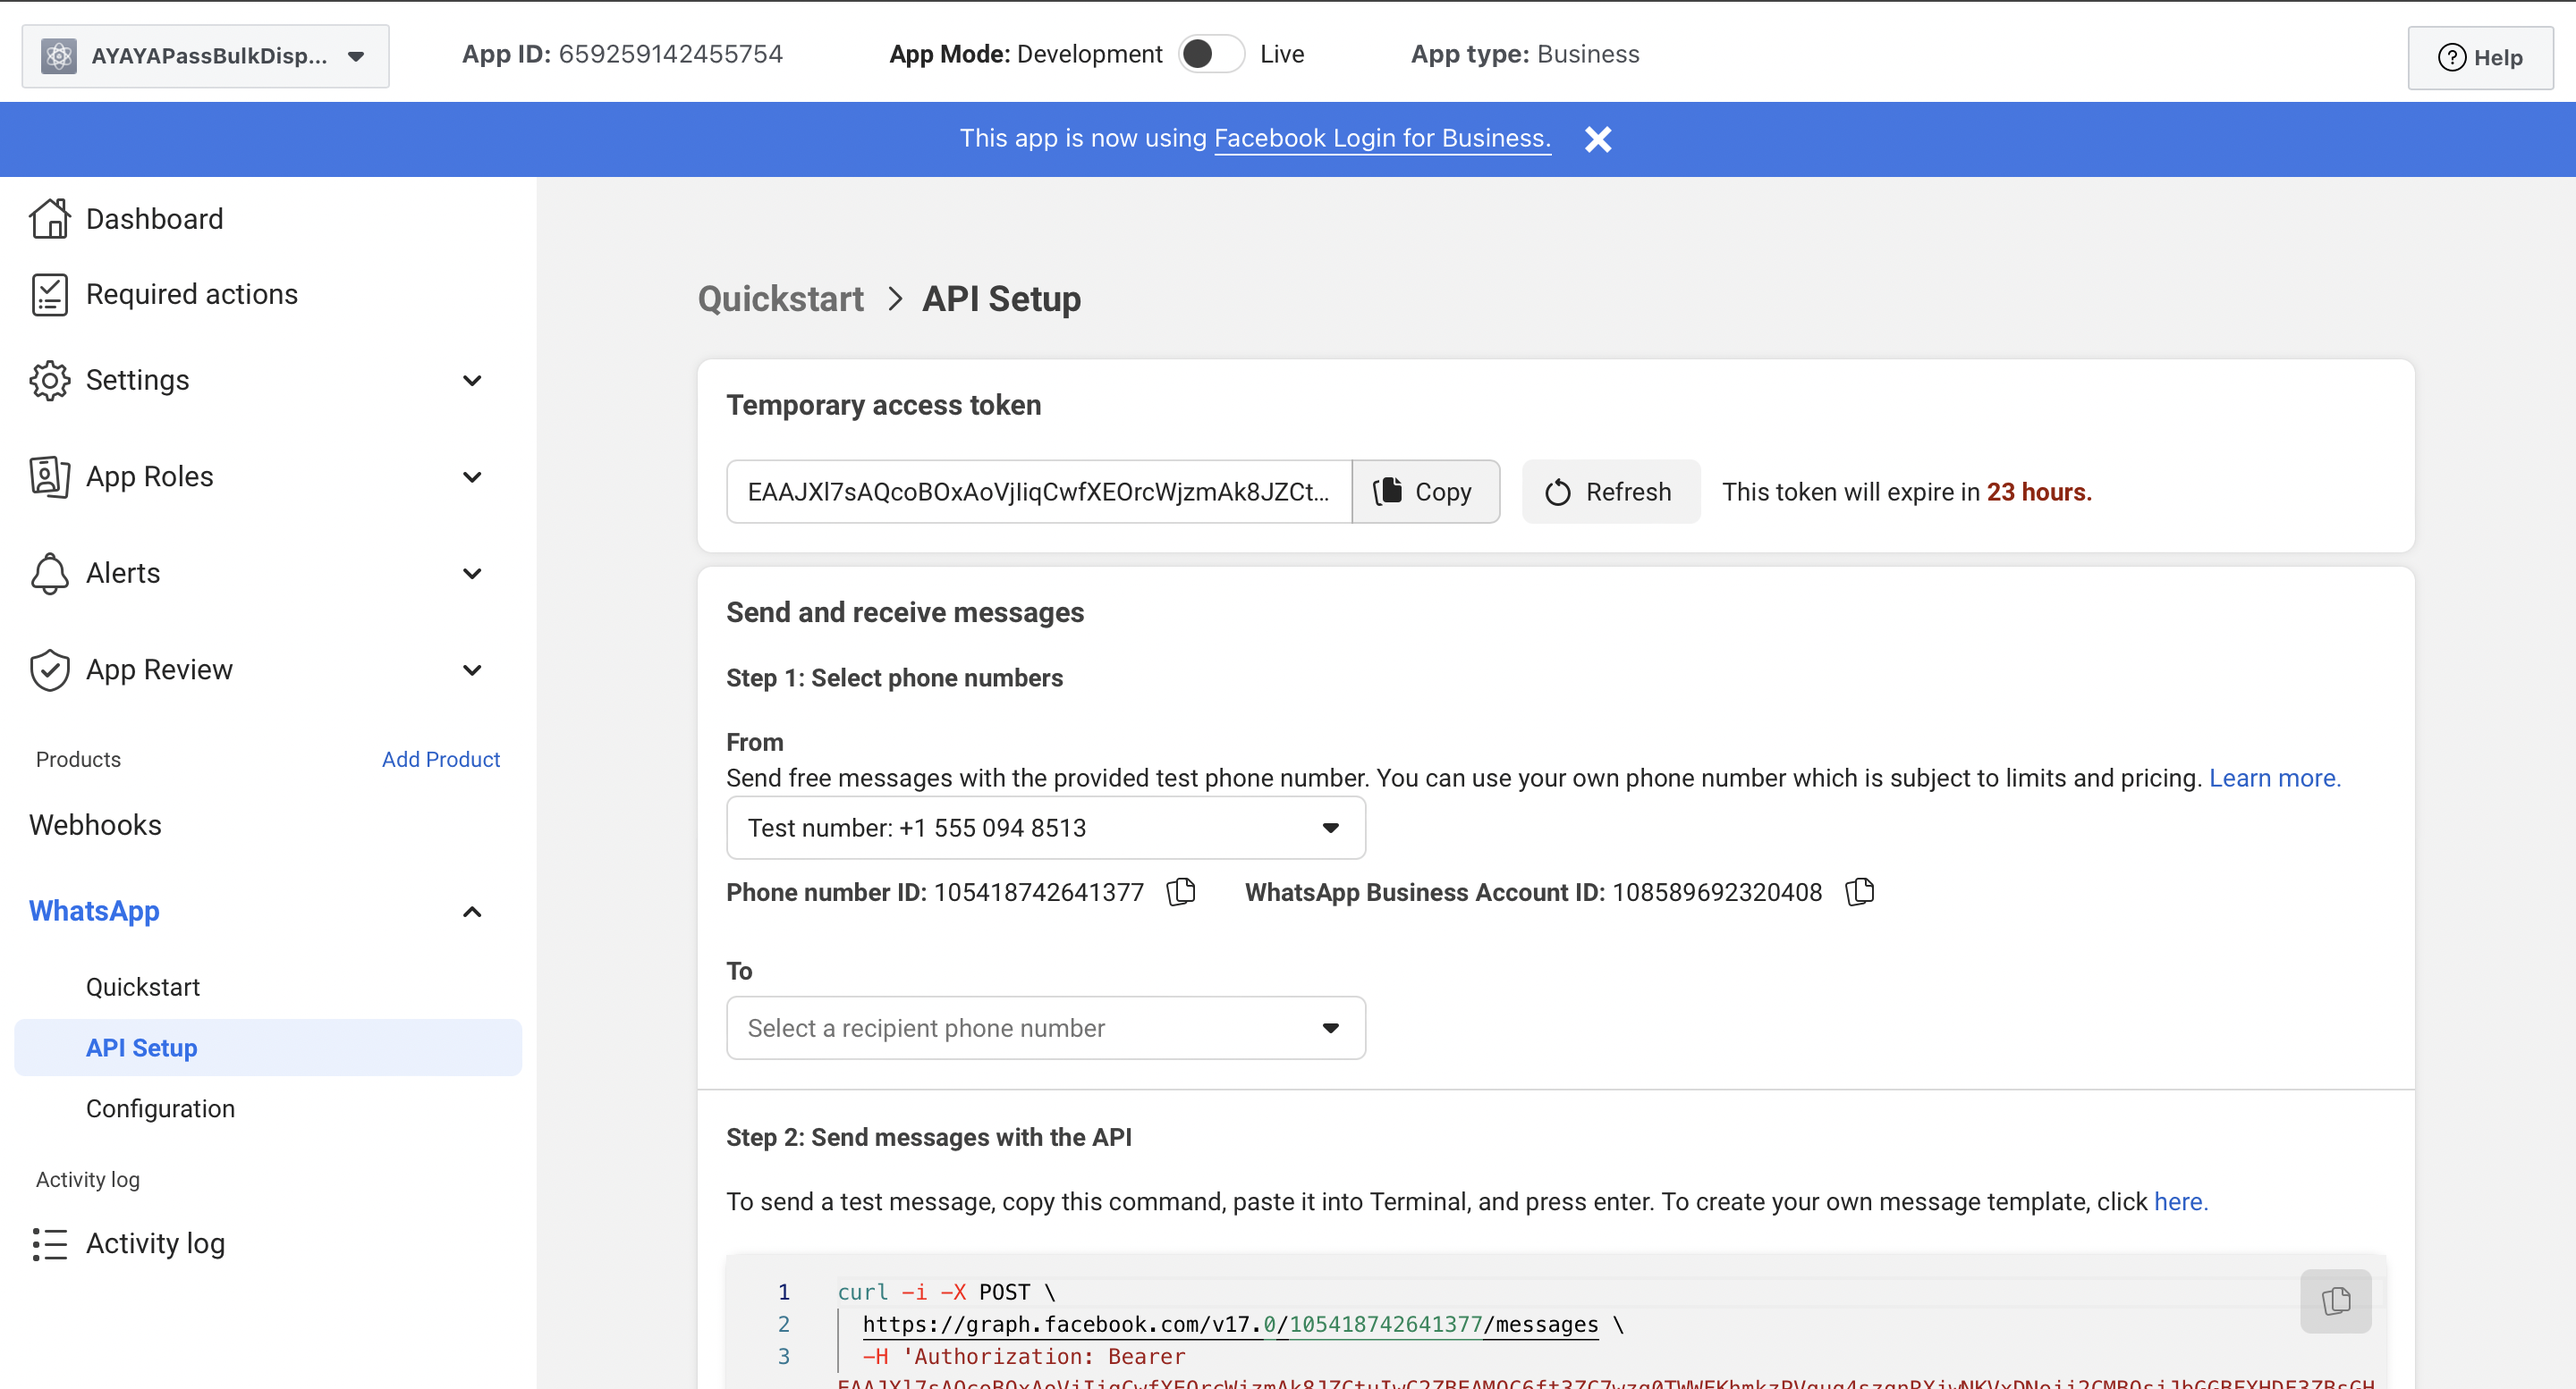
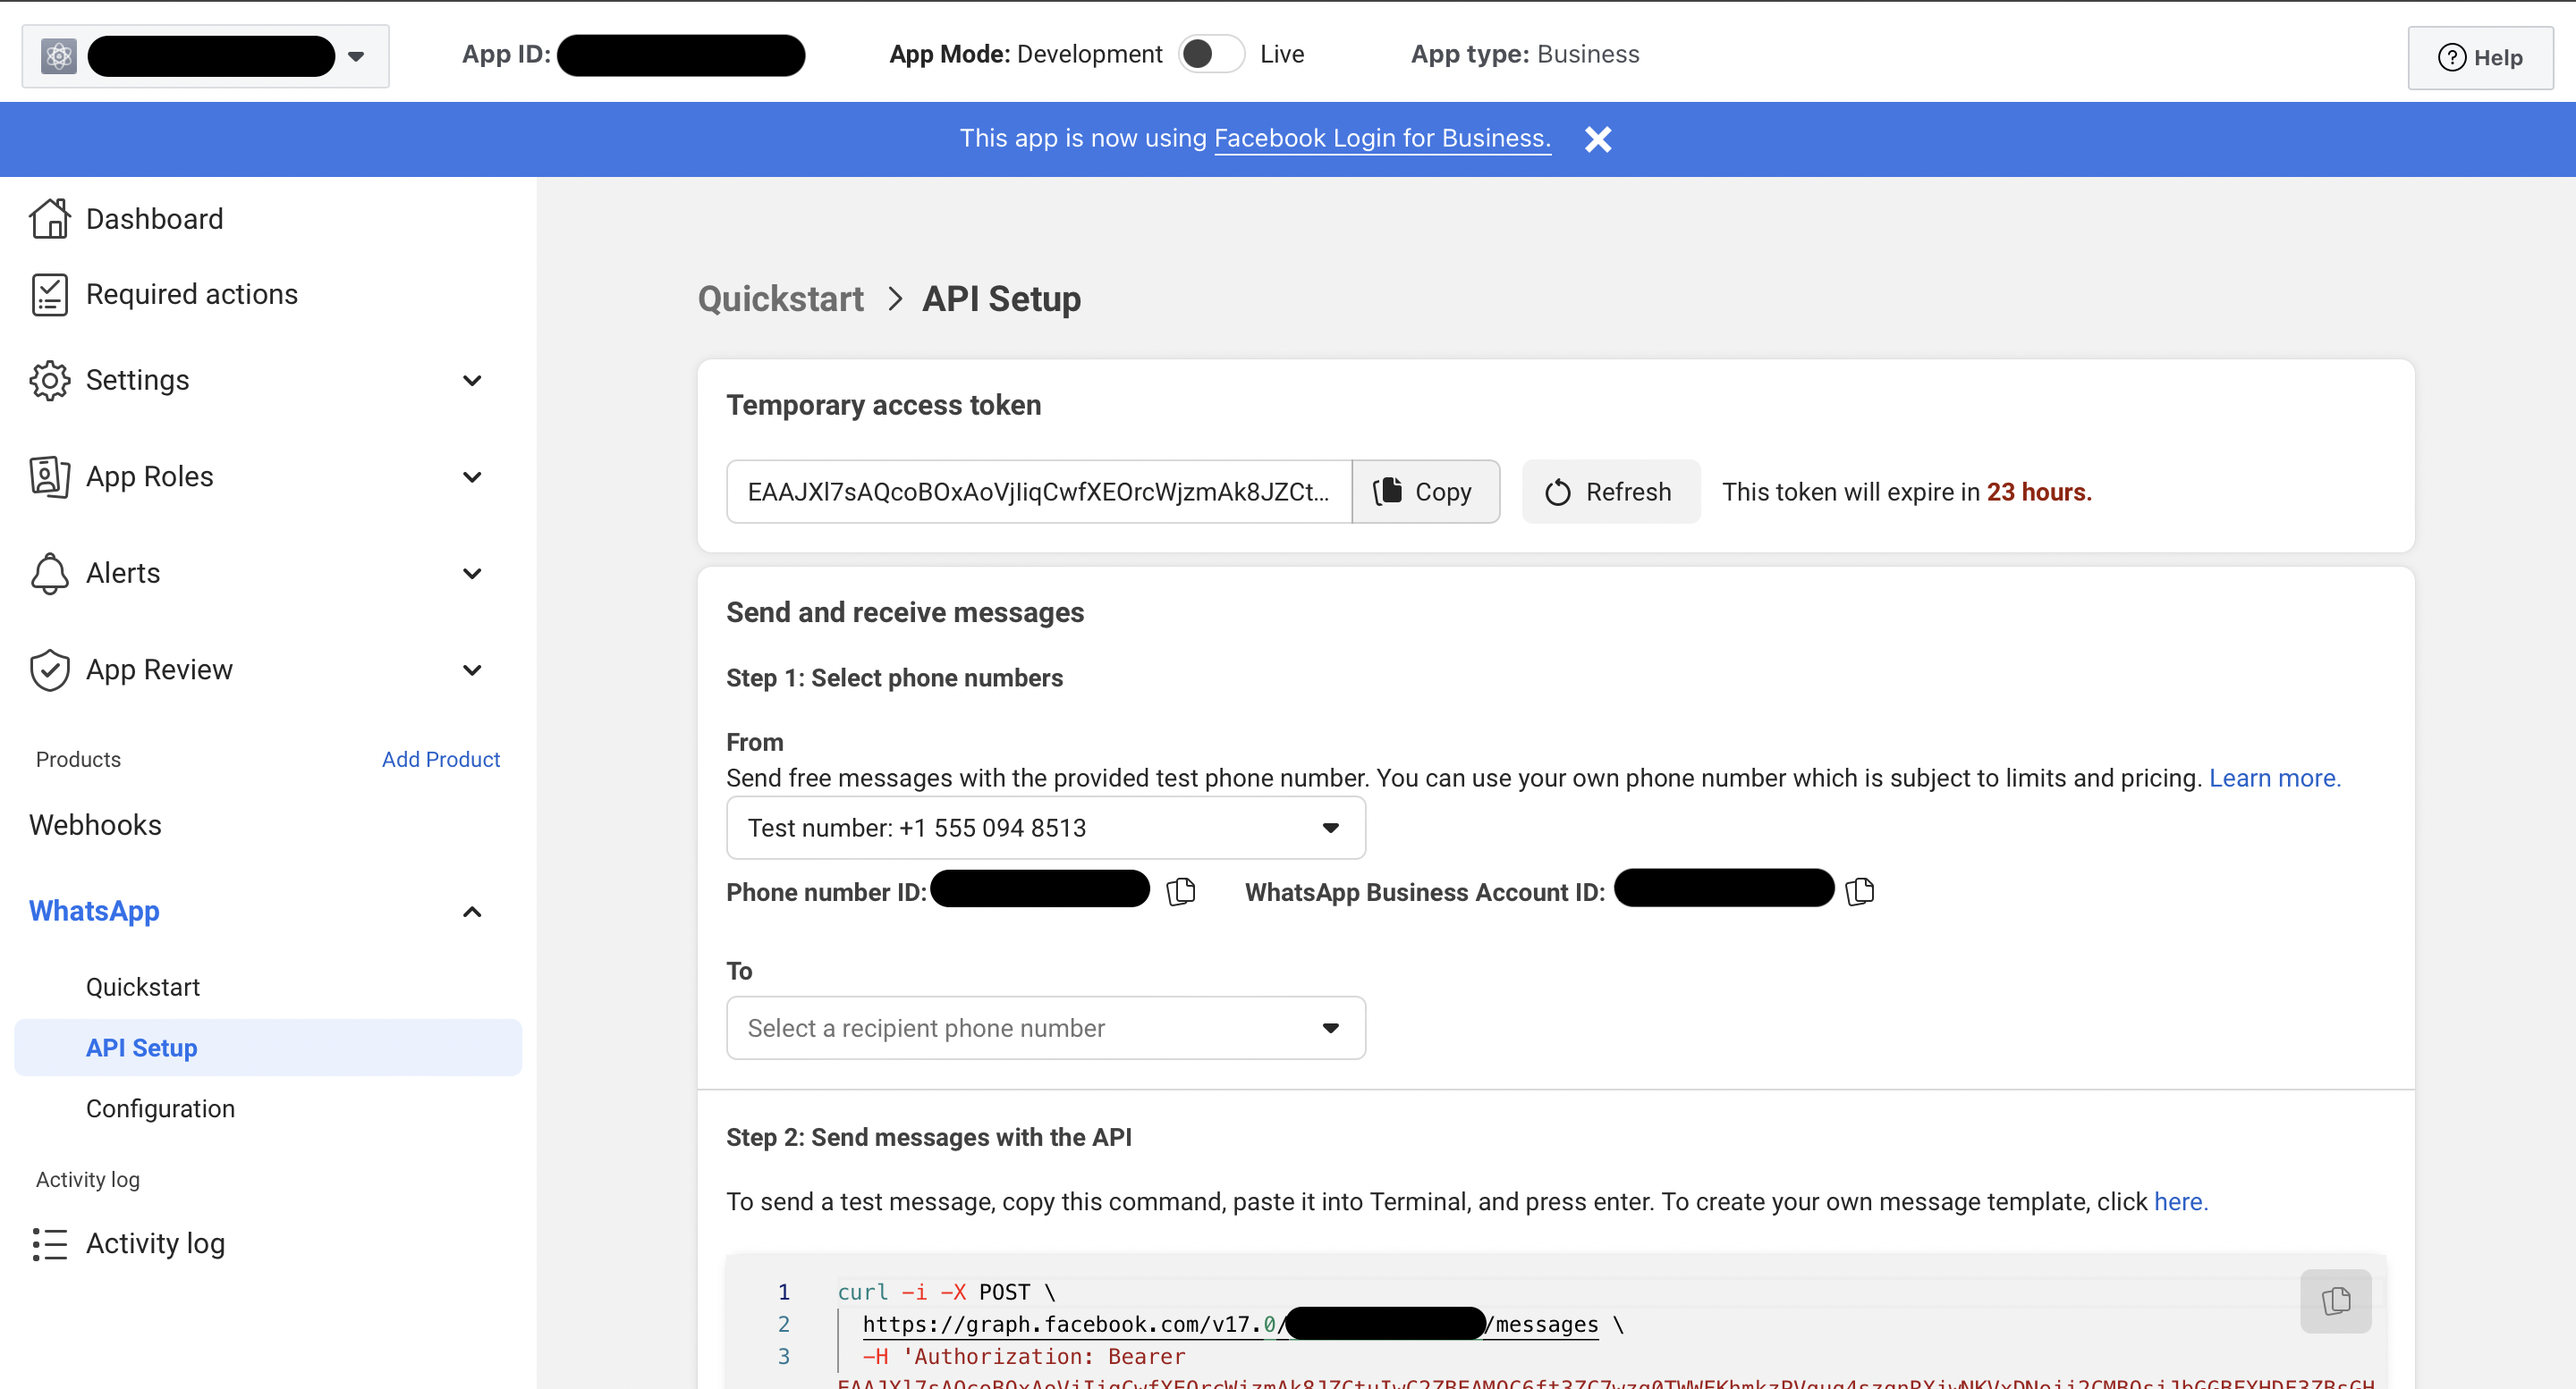
added new content

diff --git a/README.md b/README.md
@@ -16,27 +16,28 @@ As the Richmond Chinese Alliance Church AYAYA congregation has decided to implem
 ## Procedures to set up the WhatsApp business API access
 
 ### 1. Set up a WhatsApp business account with landline number
-**1.1 Install the WhatsApp business app on the phone of PIC
-**1.2 Submit your WhatsApp Business landline number with your country code. Omit the 0 in the code when you enter the number.
-**1.3 Choose the Call me option to receive the six-digits OTP for verification.
-**1.4 Answer the call and enter the OTP to be verified.
+**1.1 Install the WhatsApp business app on the phone of PIC<br>
+**1.2 Submit your WhatsApp Business landline number with your country code. Omit the 0 in the code when you enter the number.<br>
+**1.3 Choose the Call me option to receive the six-digits OTP for verification.<br>
+**1.4 Answer the call and enter the OTP to be verified.<br>
 
 WhatsApp has stringent policies on bulk messaging to prevent spam. Using a personal account to send mass messages can lead to account suspension if it's detected as spam. A WhatsApp Business account ensures that you are following their commercial messaging policies.
 
 ### 2. Set up a Meta Developer account to gain access to WhatsApp business APIs
-**2.1 Register a Meta develop account with a Faccebook account <a href="https://developers.facebook.com/apps">here</a>.
-**2.2 Create a WhatsApp app using the "Create app" button on the home page
+**2.1 Register a Meta develop account with a Faccebook account <a href="https://developers.facebook.com/apps">here</a>.<br>
+**2.2 Create a WhatsApp app using the "Create app" button on the home page<br>
 ![Meta Developer Home Page](/screenshots/meta_developer_home.png)
-**2.3 Once you have created the app, click on the app and it will redirect you to the "App Dashboard".
-**2.4 Under "Product" section of the vertical side-nav-bar, click on the "WhatsApp" drop-down menu and select "API Setup".
+**2.3 Once you have created the app, click on the app and it will redirect you to the "App Dashboard".<br>
+**2.4 Under "Product" section of the vertical side-nav-bar, click on the "WhatsApp" drop-down menu and select "API Setup".<br>
 ![Meta Developer App Dashboard](/screenshots/meta_app_dashboard.png)
-**2.5 Mark down the "Temporary access token" which you will need to use to send messages with the dispenser app.
+**2.5 Mark down the "Temporary access token" which you will need to use to send messages with the dispenser app.<br>
 ![Access Token](/screenshots/meta_app_access_token.png)
-**2.6 Note that you will also need the "Phone number ID" to use the dispenser app. By default, the page displays the test number ID. You will need to add the WhatsApp business account to your meta developer account first to obtain your Phone number ID. We will talk about the process below.
+**2.6 Note that you will also need the "Phone number ID" to use the dispenser app. By default, the page displays the test number ID. You will need to add the WhatsApp business account to your meta developer account first to obtain your Phone number ID. We will talk about the process below.<br>
 
 ### 3. Connect WhatsApp business account to Meta Developer account
-**3.1 Go to the "Business settings" of your Meta account <a href="https://business.facebook.com/settings/whatsapp-business-accounts/105108609339228?business_id=862046257503790">here</a>. 
-**3.2 Click on "Add" button to add your WhatsApp business landline number.
-**3.3 Once this process is completed, return to the App Dashboard and select your newly added WhatsApp account.
-**3.4 Obtain the Phone number ID of your WhatsApp account.
+**3.1 Go to the "Business settings" of your Meta account <a href="https://business.facebook.com/settings/whatsapp-business-accounts/105108609339228?business_id=862046257503790">here</a>.<br>
+![Add WhatsApp account](/screenshots/meta_add_account.png)
+**3.2 Click on "Add" button to add your WhatsApp business landline number.<br>
+**3.3 Once this process is completed, return to the App Dashboard and select your newly added WhatsApp account.<br>
+**3.4 Obtain the Phone number ID of your WhatsApp account.<br>
 
